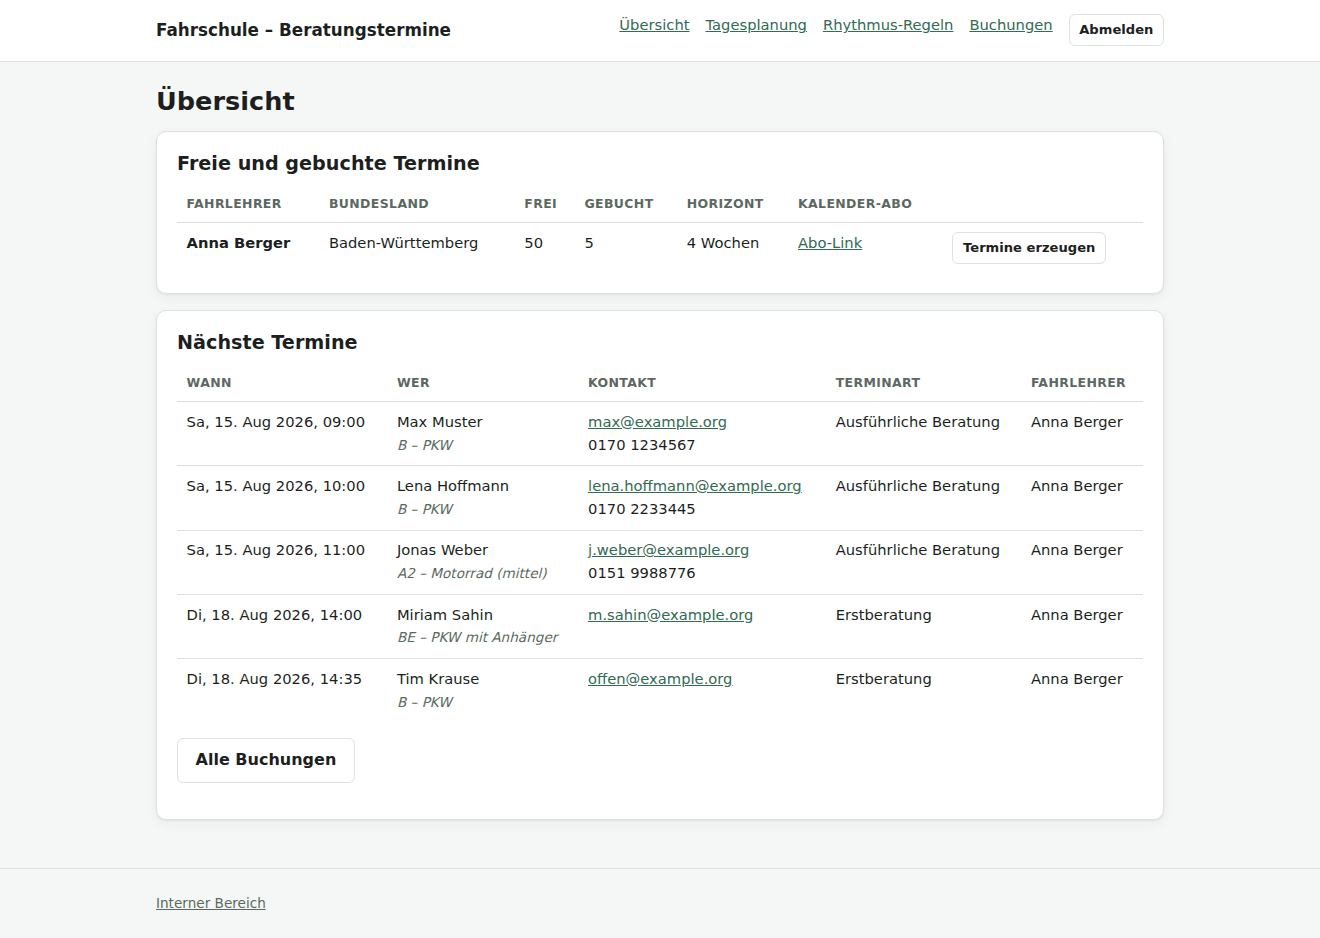
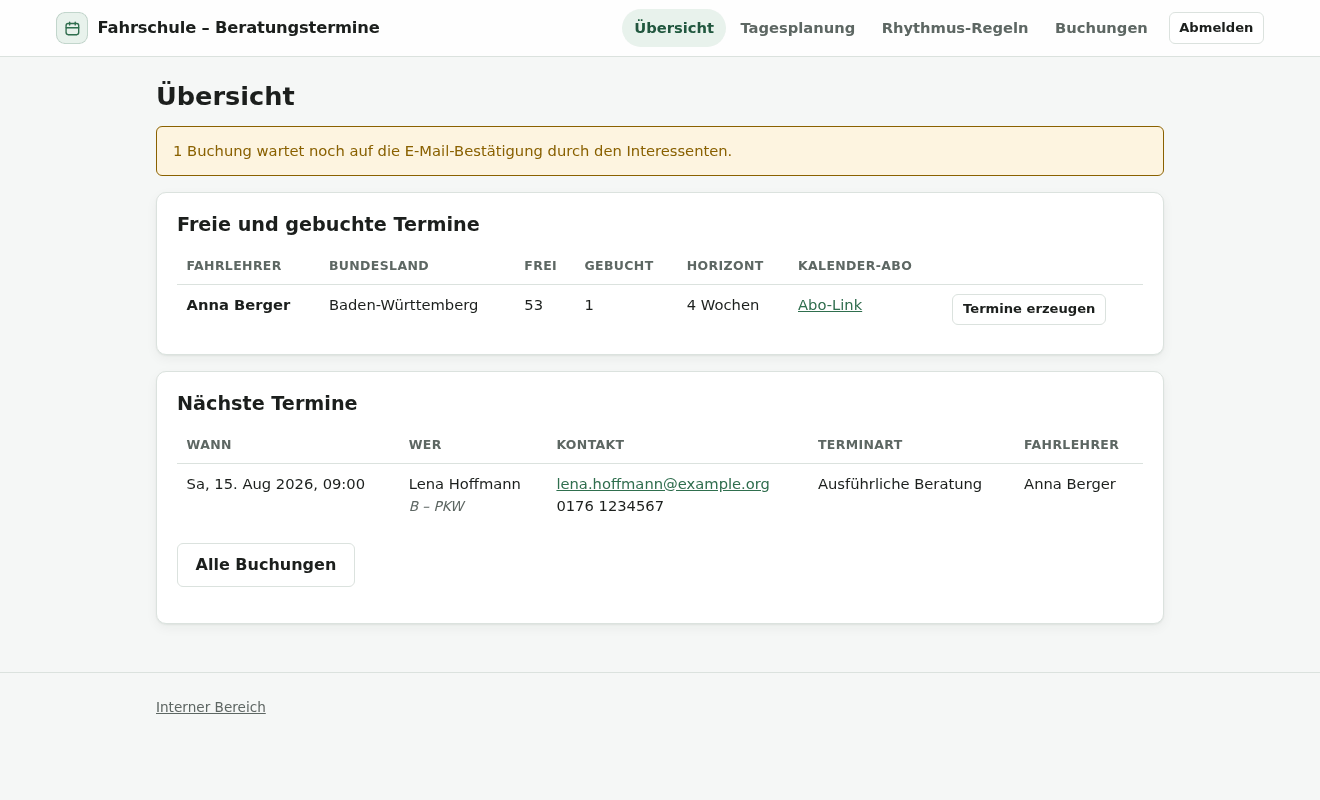
Kopfzeile und Navigation neu bauen
Die Navigation war eine Reihe unterstrichener Textlinks, wie man sie vor
fünfzehn Jahren gebaut hat. Sie hatte zwei handfeste Mängel: Man sah nirgends,
in welchem Bereich man gerade steht, und auf dem Handy brach sie in drei
Zeilen um – 280 Pixel Menü, bevor die eigentliche Seite anfing.

Die Kopfzeile bleibt jetzt beim Scrollen stehen und legt sich milchig über den
Inhalt. Das ist in der Tagesplanung mehr als Zierrat: Die Seite ist lang, und
der Weg zurück nach oben war bisher eine Wischerei. Browser ohne
backdrop-filter bekommen eine deckende Fläche statt grauem Schleier über dem
Text.

Die Punkte sind Pillen; der aktive Bereich ist eingefärbt und für
Screenreader zusätzlich mit aria-current ausgezeichnet. Welche Adressen zu
welchem Punkt gehören, steht über einen simple_tag direkt an der Navigation –
das Regelformular färbt "Rhythmus-Regeln" ein, obwohl es eine eigene Adresse
hat. In den Views ändert sich dafür nichts.

Unter 760 px klappt die Navigation hinter einen Schalter. Dahinter steckt ein
<details>-Element und kein Skript: Das Menü funktioniert damit auch ohne
JavaScript, so wie der Rest der App. Auf breiten Bildschirmen nimmt das
Stylesheet die Klappmechanik wieder zurück. Dass das zwei Regeln braucht, ist
kein Versehen – neuere Browser verstecken den Inhalt über ::details-content,
ältere über display:none am Kind.

Der Kopf spannt breiter als der Inhalt (1240 statt 1040 px). Ohne diese
Ausnahme kürzt der Browser den Namen der Fahrschule mitten im Wort weg,
[…]

diff --git a/static/css/app.css b/static/css/app.css
@@ -66,17 +66,106 @@ p { margin: 0 0 1em; }
 
 /* --- Kopf und Fuß --- */
 
+/* Die Kopfzeile bleibt beim Scrollen stehen. Auf dem Handy ist das der
+   Unterschied zwischen „einmal ganz nach oben wischen" und „direkt zum
+   nächsten Bereich"; die Planung ist lang genug, dass das zählt. */
 .kopf {
-  background: var(--flaeche);
+  position: sticky; top: 0; z-index: 20;
+  background: color-mix(in srgb, var(--flaeche) 85%, transparent);
+  backdrop-filter: saturate(180%) blur(12px);
+  -webkit-backdrop-filter: saturate(180%) blur(12px);
   border-bottom: 1px solid var(--linie);
-  padding: 0.9rem 0;
   margin-bottom: 1.5rem;
 }
-.kopf .huelle { display: flex; align-items: center; gap: 1rem; flex-wrap: wrap; }
-.kopf .marke {
-  font-weight: 700; font-size: 1.05rem; color: var(--text); text-decoration: none;
+/* Browser ohne backdrop-filter bekommen eine deckende Fläche statt
+   milchig durchscheinendem Text. */
+@supports not (backdrop-filter: blur(1px)) {
+  .kopf { background: var(--flaeche); }
 }
-.kopf nav { margin-left: auto; display: flex; gap: 1rem; flex-wrap: wrap; font-size: 0.92rem; }
+
+/* Der Kopf spannt breiter als der Inhalt darunter. Marke, fünf Punkte und
+   die Abmeldung brauchen zusammen mehr als die 1040 px, auf die der Text
+   bewusst begrenzt ist – ohne diese Ausnahme kürzt der Browser den Namen der
+   Fahrschule weg, obwohl der Bildschirm breit genug wäre. */
+.kopf-inhalt {
+  display: flex; align-items: center; gap: 0.75rem;
+  max-width: 1240px; min-height: 3.5rem;
+}
+
+.marke {
+  display: inline-flex; align-items: center; gap: 0.6rem; min-width: 0;
+  font-weight: 700; font-size: 1.02rem; color: var(--text); text-decoration: none;
+  letter-spacing: -0.01em;
+}
+.marke-zeichen {
+  display: grid; place-items: center; flex: none;
+  width: 2rem; height: 2rem; border-radius: 9px;
+  background: var(--gruen-hell); color: var(--gruen);
+  border: 1px solid color-mix(in srgb, var(--gruen) 22%, transparent);
+}
+.marke-zeichen svg { width: 1.05rem; height: 1.05rem; }
+/* Lange Fahrschulnamen dürfen den Schalter nicht aus der Zeile drängen. */
+.marke-name { overflow: hidden; text-overflow: ellipsis; white-space: nowrap; }
+
+/* --- Navigation --- */
+
+.menue { margin-left: auto; }
+
+.menue-inhalt {
+  display: flex; align-items: center; gap: 0.15rem;
+  font-size: 0.92rem;
+}
+/* Ab dieser Breite ist das Menü keine Klappe mehr, sondern eine Leiste: Der
+   Inhalt gehört immer sichtbar, unabhängig davon, ob <details> gerade offen
+   ist. Neuere Browser verstecken ihn über ::details-content, ältere über
+   display:none am Kind – die Zeile oben nimmt das eine zurück, diese das
+   andere. */
+@media (min-width: 761px) {
+  .menue::details-content { content-visibility: visible; }
+}
+.menue-inhalt a {
+  padding: 0.45rem 0.75rem; border-radius: 999px;
+  color: var(--text-leise); text-decoration: none; font-weight: 550;
+  white-space: nowrap;
+  transition: background-color 120ms ease, color 120ms ease;
+}
+.menue-inhalt a:hover { background: var(--grund); color: var(--text); }
+.menue-inhalt a.aktiv { background: var(--gruen-hell); color: var(--gruen-dunkel); }
+.menue-inhalt a:focus-visible { outline: 2px solid var(--gruen); outline-offset: 2px; }
+.menue-abmelden { margin-left: 0.4rem; }
+
+/* Der Schalter erscheint nur auf schmalen Geräten (siehe unten). */
+.menue-schalter {
+  display: none; list-style: none; cursor: pointer;
+  width: 2.75rem; height: 2.75rem; border-radius: 10px;
+  align-items: center; justify-content: center;
+  color: var(--text); border: 1px solid var(--linie); background: var(--flaeche);
+}
+.menue-schalter::-webkit-details-marker { display: none; }
+.menue-schalter svg { width: 1.35rem; height: 1.35rem; }
+.menue-schalter:hover { background: var(--grund); }
+.menue-kreuz { display: none; }
+.menue[open] .menue-strich { display: none; }
+.menue[open] .menue-kreuz { display: block; }
+
+@media (max-width: 760px) {
+  .menue-schalter { display: flex; }
+  .menue-inhalt {
+    position: absolute; right: 1rem; left: 1rem; top: calc(100% + 0.5rem);
+    flex-direction: column; align-items: stretch; gap: 0.1rem;
+    padding: 0.5rem; border-radius: var(--radius);
+    background: var(--flaeche); border: 1px solid var(--linie);
+    box-shadow: var(--schatten);
+  }
+  /* Fingerbreite Ziele statt Textzeilen. */
+  .menue-inhalt a { padding: 0.7rem 0.8rem; border-radius: var(--radius-klein); }
+  .menue-abmelden { margin: 0.35rem 0 0; border-top: 1px solid var(--linie); padding-top: 0.5rem; }
+  .menue-abmelden .knopf { width: 100%; justify-content: center; }
+}
+
+@media (prefers-reduced-motion: reduce) {
+  .menue-inhalt a { transition: none; }
+}
 
 .fuss {
   margin-top: 3rem; padding: 1.5rem 0; border-top: 1px solid var(--linie);

diff --git a/termine/templates/staff/base_staff.html b/termine/templates/staff/base_staff.html
@@ -1,13 +1,47 @@
 {% extends "base.html" %}
+{% load navigation %}
 
 {% block navigation %}
-  <a href="{% url 'termine:dashboard' %}">Übersicht</a>
-  <a href="{% url 'termine:tagesplanung' %}">Tagesplanung</a>
-  <a href="{% url 'termine:regeln' %}">Rhythmus-Regeln</a>
-  <a href="{% url 'termine:buchungen' %}">Buchungen</a>
-  {% if user.is_staff %}<a href="/django-admin/">Stammdaten</a>{% endif %}
-  <form method="post" action="{% url 'termine:logout' %}" style="display:inline">
-    {% csrf_token %}
-    <button type="submit" class="knopf knopf--leise knopf--klein">Abmelden</button>
-  </form>
+  {% comment %}
+    Ein <details> statt eines Skripts: Auf schmalen Geräten klappt die
+    Navigation über den Schalter auf, ab 760 px zeigt das Stylesheet sie
+    dauerhaft an und blendet den Schalter aus. Damit funktioniert das Menü
+    auch ohne JavaScript – genau wie der Rest der App.
+  {% endcomment %}
+  <details class="menue">
+    <summary class="menue-schalter" aria-label="Menü">
+      <svg class="menue-strich" viewBox="0 0 24 24" fill="none" stroke="currentColor"
+           stroke-width="2" stroke-linecap="round" aria-hidden="true">
+        <path d="M4 7h16M4 12h16M4 17h16"></path>
+      </svg>
+      <svg class="menue-kreuz" viewBox="0 0 24 24" fill="none" stroke="currentColor"
+           stroke-width="2" stroke-linecap="round" aria-hidden="true">
+        <path d="M6 6l12 12M18 6L6 18"></path>
+      </svg>
+    </summary>
+
+    <nav class="menue-inhalt" aria-label="Interner Bereich">
+      {% aktiv 'dashboard' as hier %}
+      <a class="{{ hier }}" {% if hier %}aria-current="page"{% endif %}
+         href="{% url 'termine:dashboard' %}">Übersicht</a>
+
+      {% aktiv 'tagesplanung' 'termine_anlegen' 'sperrzeit_anlegen' 'generieren' as hier %}
+      <a class="{{ hier }}" {% if hier %}aria-current="page"{% endif %}
+         href="{% url 'termine:tagesplanung' %}">Tagesplanung</a>
+
+      {% aktiv 'regeln' 'regel_neu' 'regel_bearbeiten' as hier %}
+      <a class="{{ hier }}" {% if hier %}aria-current="page"{% endif %}
+         href="{% url 'termine:regeln' %}">Rhythmus-Regeln</a>
+
+      {% aktiv 'buchungen' as hier %}
+      <a class="{{ hier }}" {% if hier %}aria-current="page"{% endif %}
+         href="{% url 'termine:buchungen' %}">Buchungen</a>
+
+      {% if user.is_staff %}<a href="/django-admin/">Stammdaten</a>{% endif %}
+      <form class="menue-abmelden" method="post" action="{% url 'termine:logout' %}">
+        {% csrf_token %}
+        <button type="submit" class="knopf knopf--leise knopf--klein">Abmelden</button>
+      </form>
+    </nav>
+  </details>
 {% endblock %}

diff --git a/termine/templates/base.html b/termine/templates/base.html
@@ -11,11 +11,18 @@
 </head>
 <body>
   <header class="kopf">
-    <div class="huelle">
-      <a class="marke" href="{% url 'termine:start' %}">{{ SITE_NAME }}</a>
-      <nav>
-        {% block navigation %}{% endblock %}
-      </nav>
+    <div class="huelle kopf-inhalt">
+      <a class="marke" href="{% url 'termine:start' %}">
+        <span class="marke-zeichen" aria-hidden="true">
+          <svg viewBox="0 0 24 24" fill="none" stroke="currentColor" stroke-width="2"
+               stroke-linecap="round" stroke-linejoin="round">
+            <rect x="3" y="5" width="18" height="16" rx="3"></rect>
+            <path d="M8 3v4M16 3v4M3 11h18"></path>
+          </svg>
+        </span>
+        <span class="marke-name">{{ SITE_NAME }}</span>
+      </a>
+      {% block navigation %}{% endblock %}
     </div>
   </header>
 

diff --git a/termine/tests/test_navigation.py b/termine/tests/test_navigation.py
@@ -1,0 +1,77 @@
+"""Tests für die Markierung des aktuellen Navigationspunkts.
+
+Die Zuordnung „welche Adresse gehört zu welchem Punkt" steht in der Vorlage
+und ist damit leicht zu übersehen, wenn eine neue Seite dazukommt. Diese Tests
+halten sie fest – besonders die Unterseiten, die zu einem Punkt gehören, ohne
+seine eigene Adresse zu sein.
+"""
+
+from __future__ import annotations
+
+import datetime as dt
+
+from django.contrib.auth import get_user_model
+from django.test import SimpleTestCase, TestCase
+from django.urls import reverse
+from django.utils import timezone
+
+from termine.models import Fahrlehrer, RhythmusRegel, Terminart
+from termine.templatetags.navigation import aktiv
+
+
+class AktiverPunkt(TestCase):
+    def setUp(self):
+        self.chef = get_user_model().objects.create_superuser("chef", password="geheim123")
+        self.client.force_login(self.chef)
+        self.art = Terminart.objects.create(name="Erstberatung", dauer_minuten=30)
+        self.anna = Fahrlehrer.objects.create(
+            name="Anna Berger", email="anna@example.org", bundesland="BW"
+        )
+
+    def punkte(self, antwort) -> list[str]:
+        """Die Beschriftungen aller als aktiv markierten Punkte."""
+        html = antwort.content.decode()
+        gefunden = []
+        for stueck in html.split('class="aktiv"')[1:]:
+            gefunden.append(stueck.split(">", 1)[1].split("<", 1)[0].strip())
+        return gefunden
+
+    def test_jede_hauptseite_markiert_genau_sich_selbst(self):
+        for name, beschriftung in (
+            ("termine:dashboard", "Übersicht"),
+            ("termine:tagesplanung", "Tagesplanung"),
+            ("termine:regeln", "Rhythmus-Regeln"),
+            ("termine:buchungen", "Buchungen"),
+        ):
+            with self.subTest(seite=name):
+                antwort = self.client.get(reverse(name))
+                self.assertEqual(self.punkte(antwort), [beschriftung])
+
+    def test_unterseite_markiert_ihren_bereich(self):
+        # Das Regelformular ist eine eigene Adresse, gehört aber zu den Regeln.
+        regel = RhythmusRegel.objects.create(
+            fahrlehrer=self.anna,
+            terminart=self.art,
+            wochentage=[1],
+            beginn=dt.time(14, 0),
+            ende=dt.time(17, 0),
+            gueltig_ab=timezone.localdate(),
+        )
+        antwort = self.client.get(reverse("termine:regel_bearbeiten", args=[regel.pk]))
+        self.assertEqual(self.punkte(antwort), ["Rhythmus-Regeln"])
+
+    def test_aktiver_punkt_ist_auch_fuer_screenreader_erkennbar(self):
+        antwort = self.client.get(reverse("termine:buchungen"))
+        self.assertContains(antwort, 'aria-current="page"', count=1)
+
+    def test_oeffentliche_seite_hat_keine_interne_navigation(self):
+        self.client.logout()
+        antwort = self.client.get(reverse("termine:start"))
+        self.assertNotContains(antwort, "menue-schalter")
+
+
+class OhneRequest(SimpleTestCase):
+    def test_kein_request_im_kontext_markiert_nichts(self):
+        # Fehlerseiten werden ohne den üblichen Kontext gerendert. Der Tag darf
+        # dort nichts markieren, aber erst recht nicht scheitern.
+        self.assertEqual(aktiv({}, "dashboard"), "")

diff --git a/termine/templatetags/navigation.py b/termine/templatetags/navigation.py
@@ -1,0 +1,20 @@
+"""Markiert den Navigationspunkt, der zur gerade offenen Seite gehört.
+
+Ein Bereich besteht aus mehreren Seiten: Zur Tagesplanung gehören auch das
+Anlegen von Terminen und das Sperren von Zeiten. Welche Adressen zu welchem
+Punkt zählen, steht deshalb direkt an der Navigation in der Vorlage – dort ist
+es beim Lesen sichtbar, statt in den Views verteilt zu sein.
+"""
+
+from django import template
+
+register = template.Library()
+
+
+@register.simple_tag(takes_context=True)
+def aktiv(context, *url_namen: str) -> str:
+    """Gibt "aktiv" zurück, wenn die aktuelle Adresse zu diesem Punkt gehört."""
+    treffer = getattr(context.get("request"), "resolver_match", None)
+    if treffer is None:
+        return ""
+    return "aktiv" if treffer.url_name in url_namen else ""

diff --git a/README.md b/README.md
@@ -256,6 +256,19 @@ nicht `403` – die App verrät damit nicht einmal, dass es den Termin gibt.
 htmx liegt als eine Datei unter `static/js/` – es gibt bewusst keinen
 Paketmanager fürs Frontend.
 
+### Kopfzeile und Navigation
+
+Die Kopfzeile bleibt beim Scrollen stehen und legt sich milchig über den
+Inhalt. Die Punkte des internen Bereichs sind Pillen; der Bereich, in dem man
+gerade steht, ist eingefärbt und für Screenreader zusätzlich mit
+`aria-current="page"` ausgezeichnet. Zu einem Punkt gehören auch seine
+Unterseiten – das Regelformular färbt „Rhythmus-Regeln" ein, nicht nichts.
+
+Unter 760 px klappt die Navigation hinter einen Schalter. Dahinter steckt ein
+`<details>`-Element und kein Skript: Damit funktioniert das Menü auch ohne
+JavaScript, passend zum Rest der App. Auf breiten Bildschirmen nimmt das
+Stylesheet die Klappmechanik wieder zurück und zeigt eine Leiste.
+
 ---
 
 ## Schnellstart (Entwicklung)
@@ -427,6 +440,15 @@ Bewusst nicht gebaut, weil nicht besprochen:
 - Bei einem einzelnen Fahrlehrer bleiben die Auswahlfelder in den internen
   Formularen sichtbar (auf der öffentlichen Seite entfallen sie).
 
+**Die Kundenseite ist für das Handy gebaut, der interne Bereich für den
+Schreibtisch.** Kalender, Terminliste und Buchungsformular ordnen sich schon
+ab 390 px sauber untereinander – dort kommen die Interessenten an, meist vom
+Telefon. Der interne Bereich funktioniert auf dem Handy, ist aber nicht dafür
+gemacht: Die Wochenansicht der Tagesplanung stapelt sieben Tage untereinander,
+und die Tabellen von Übersicht und Buchungsliste sind breiter als der
+Bildschirm – sie werden am rechten Rand abgeschnitten, statt scrollbar zu
+sein. Wer unterwegs nachsehen will, wer morgen kommt, dreht das Gerät quer.
+
 ---
 
 ## Tests
@@ -435,7 +457,7 @@ Bewusst nicht gebaut, weil nicht besprochen:
 python manage.py test termine
 ```
 
-169 Tests, 97 % der Zeilen abgedeckt. Der Schwerpunkt liegt bewusst dort, wo
+174 Tests, 97 % der Zeilen abgedeckt. Der Schwerpunkt liegt bewusst dort, wo
 Fehler unbemerkt bleiben würden:
 
 | Bereich | Was geprüft wird |
@@ -484,8 +506,8 @@ termine/
     ics.py             Kalendereinträge und Abo-Feed
     mail.py            E-Mail-Versand
     einrichtung.py     Erkennt die noch nicht eingerichtete Installation
-  templatetags/    Holt den Einrichtungshinweis in fremde Vorlagen
-  tests/           169 Tests, 97 % Zeilenabdeckung (siehe unten)
+  templatetags/    Einrichtungshinweis und aktiver Navigationspunkt
+  tests/           174 Tests, 97 % Zeilenabdeckung (siehe unten)
 static/            CSS und htmx
 docs/bilder/       Screenshots für diese README
 ```

diff --git a/CLAUDE.md b/CLAUDE.md
@@ -30,6 +30,17 @@ Rhythmus-Regeln Termine mehrere Wochen im Voraus aus.
 | Kalender | `icalendar` für `.ics`-Anhang und Abo-Feed |
 | Sprache | Deutsch – Oberfläche, Code-Kommentare, Commit-Nachrichten. Keine Übersetzungsdateien. |
 
+### Oberfläche
+
+- Kopfzeile klebt beim Scrollen, milchig über dem Inhalt; Navigationspunkte als
+  Pillen mit eingefärbtem aktivem Bereich (`aria-current="page"`).
+- Unter 760 px klappt die Navigation hinter einen Schalter – als `<details>`,
+  **ohne JavaScript**. Kein Skript für Aufklappmenüs nachrüsten.
+- Der Kopf darf breiter spannen (1240 px) als der Inhalt (1040 px); sonst passt
+  der Name der Fahrschule nicht neben die fünf Punkte.
+- Die öffentliche Seite ist auf das Handy optimiert, der interne Bereich auf den
+  Schreibtisch. Das ist eine Entscheidung, kein Versehen.
+
 ### Zugriff und Login
 
 - **Kein Kundenkonto.** Interessenten buchen ohne Registrierung.
@@ -98,7 +109,7 @@ coverage run manage.py test termine && coverage report
 
 - `main` trägt den stabilen Stand. Entwickelt wird auf einem eigenen Branch,
   der erst nach grüner Testsuite dorthin zurückfließt.
-- Stand: 169 Tests, 97 % Zeilenabdeckung. Neue Funktionen kommen mit Tests –
+- Stand: 174 Tests, 97 % Zeilenabdeckung. Neue Funktionen kommen mit Tests –
   der Schwerpunkt liegt dort, wo ein Fehler unbemerkt bliebe (Jobs, Kommandos,
   Ausfallpfade des Mailversands).
 - Commit-Nachrichten auf Deutsch, im Stil der bestehenden Historie: erst was
